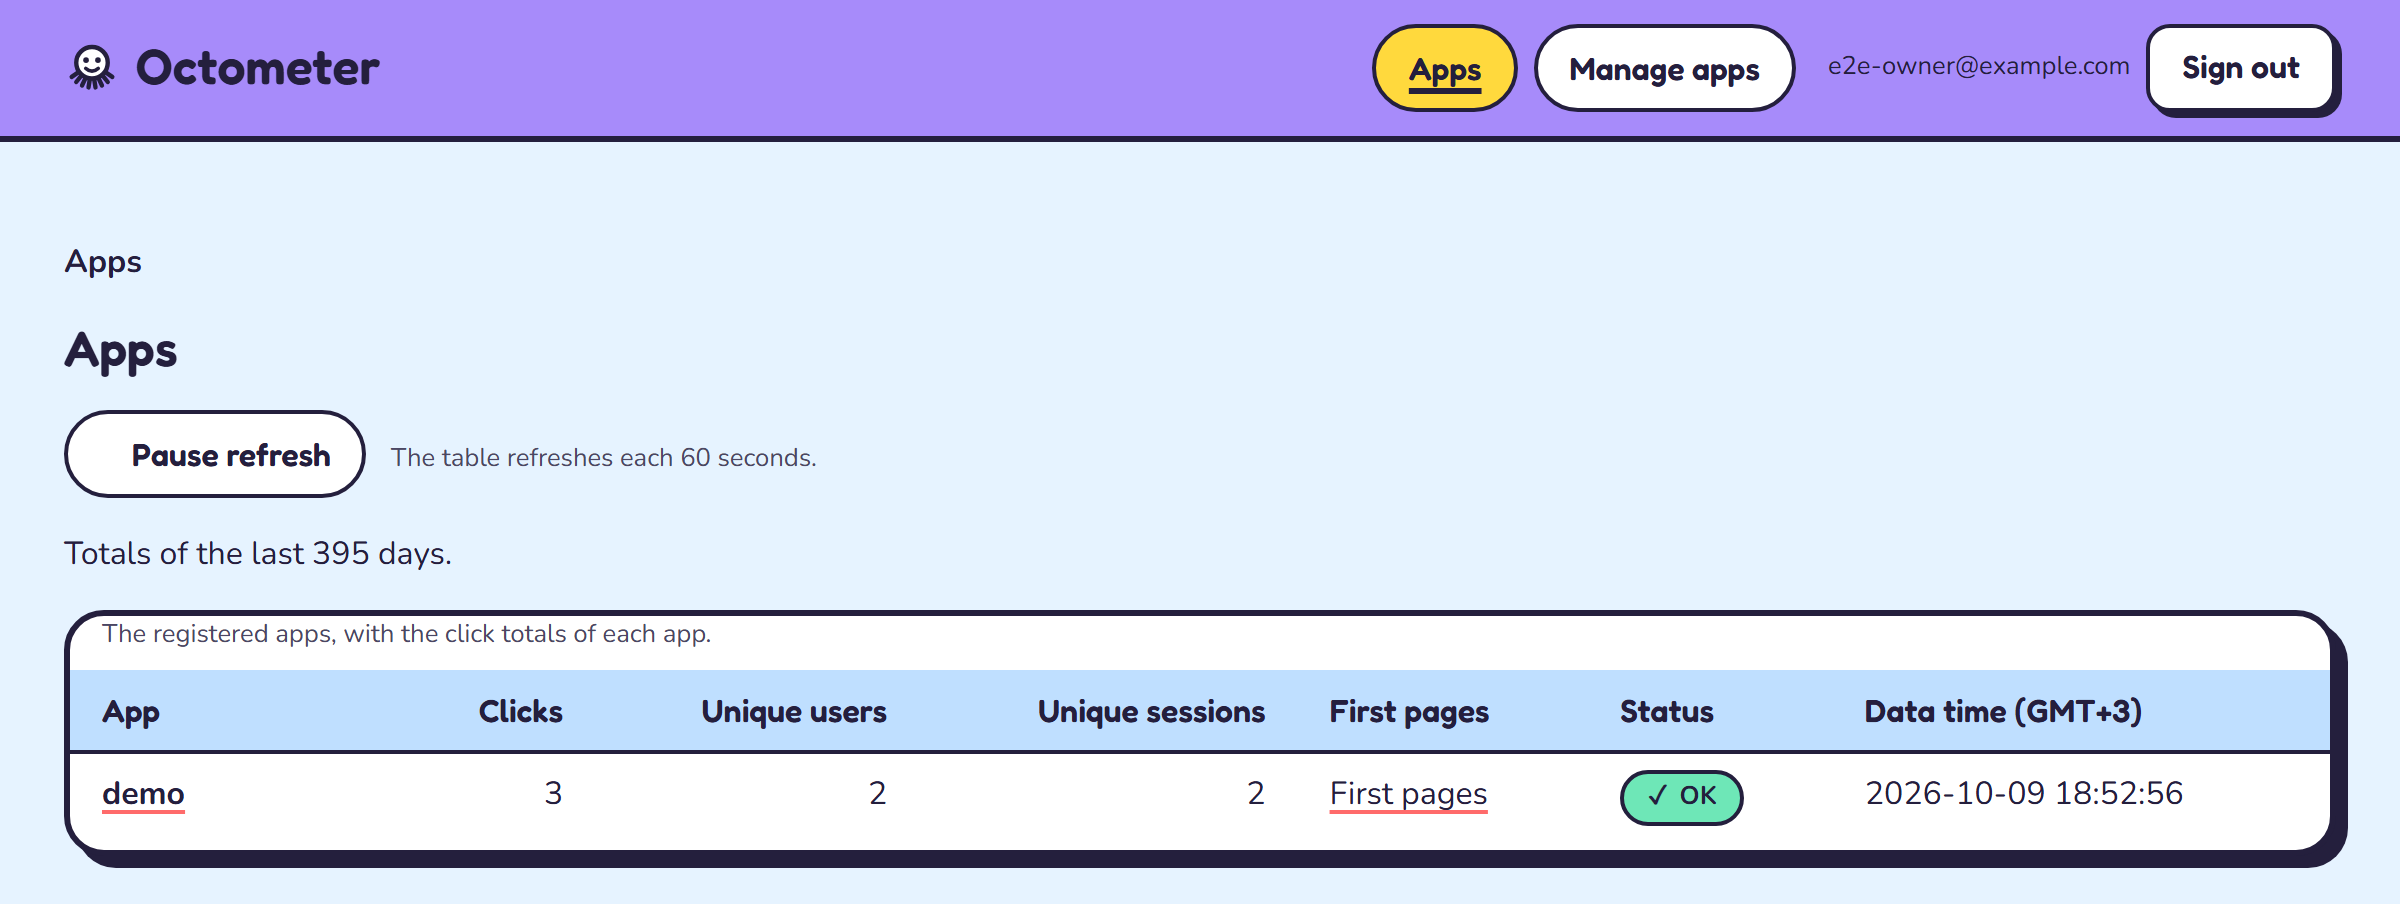
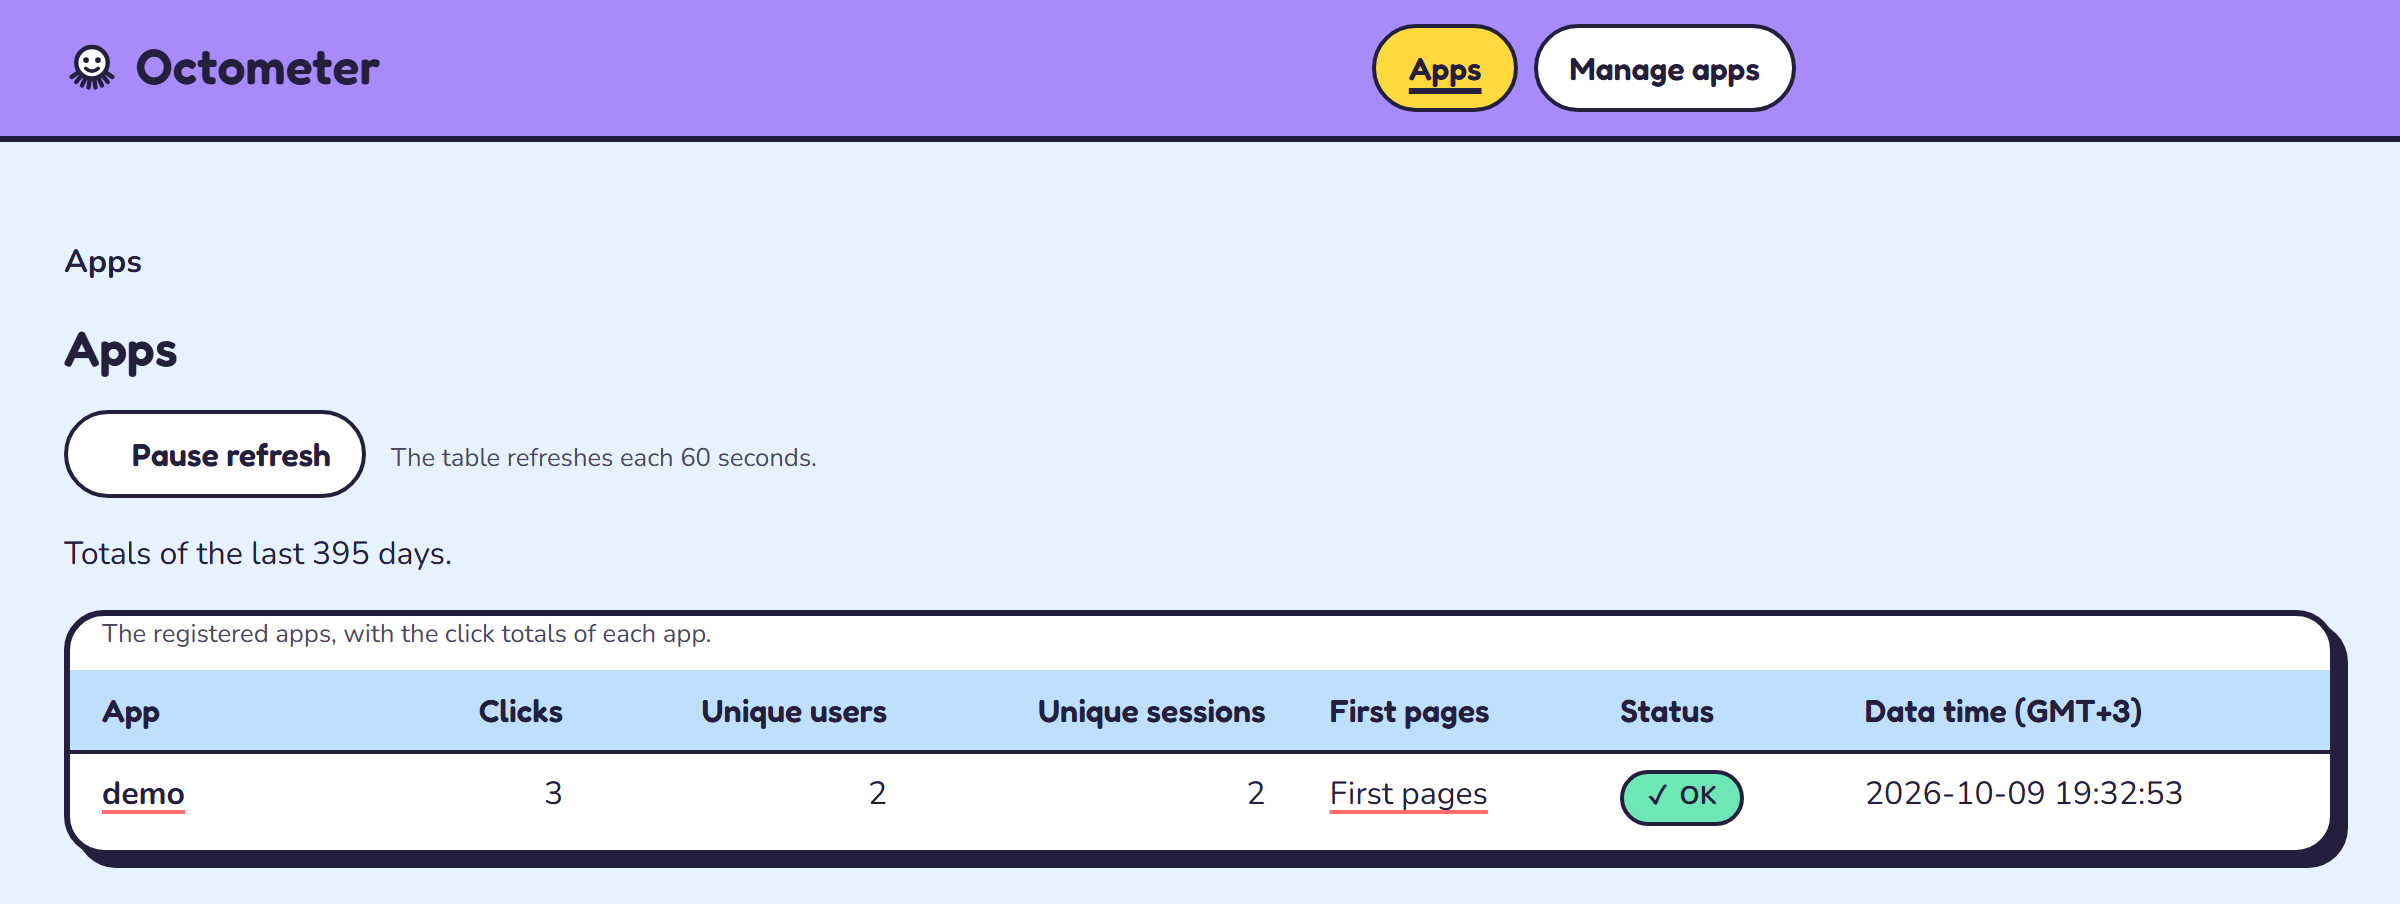
fix(site): hide the account header in the six screenshots (#343)
MAJOR 1 of the review: each image showed the account address and the
"Sign out" button of the harness session. A temporary capture spec
hid `.account-status` through an injected style, then wrote the six
files again, with the same demo data and the same 24 px crop.

The sizes stay the same (2400x904, 2400x1224, 2400x898, and the
`-600` half), so `site/index.html` needs no width or height change.

The six MINOR findings of the review stay open; each one is now a
row of `minor_issues/351.md`.

Refs #343

Changed region(s): [[0.75, 0.0, 1.0, 0.1549], [0.875, 0.8673, 0.9062, 0.8982]]

diff --git a/minor_issues/351.md b/minor_issues/351.md
@@ -1,0 +1,12 @@
+# MINOR findings of pull request #351
+
+Each row of this file comes from the review of pull request #351, for issue #343.
+
+| Date | Issue | Reviewer role | File and line | Finding | Suggested fix | Status |
+| --- | --- | --- | --- | --- | --- | --- |
+| 2026-10-09 | #343 | site TypeScript and design, with the security check | `site/e2e/tests/how-it-works.spec.ts:79-86` | The ratio assertion sits inside `toPass()`; a true ratio regression retries until the test timeout. | Keep the width check inside `toPass()`; assert the ratio one time, after the block. | open |
+| 2026-10-09 | #343 | site TypeScript and design, with the security check | `site/e2e/tests/how-it-works.spec.ts:71-87` | The loop reads the `-1200.png` source at every viewport; the three `-600.png` files get no ratio check. | Repeat the ratio read after the resize to 360 px, where `currentSrc` holds `-600.png`. | open |
+| 2026-10-09 | #343 | site TypeScript and design, with the security check | `site/e2e/tests/how-it-works.spec.ts:64-69` | The new comment holds two long sentences, 26 and 33 words, above the limit of 25. | Write four short sentences: the old ratio, the gap, the bound, and the tallest view. | open |
+| 2026-10-09 | #343 | site TypeScript and design, with the security check | `CHANGELOG.md:26-27` | The line holds 26 words and joins two actions with "and", above the limit of 25. | Split the line into two sentences: the re-capture, then the crop. | open |
+| 2026-10-09 | #343 | site TypeScript and design, with the security check | `site/public/screens/apps-1200.png` and the five other files | The new demo data is thin: 3 clicks and 2 users, against 134 clicks and 5 users on `main`. | Send more demo clicks of more demo users before a capture, then write the six files again. | open |
+| 2026-10-09 | #343 | site TypeScript and design, with the security check | `site/scripts/screenshots.mjs:31-41,75` | The script assumes no sign-in; `GET /api/apps` answers 401 now, so `npm run screenshots` fails at its first step. | Open a follow-up issue: give the helper the harness sign-in and a `clip` 24 px below `<main>`. | open |
